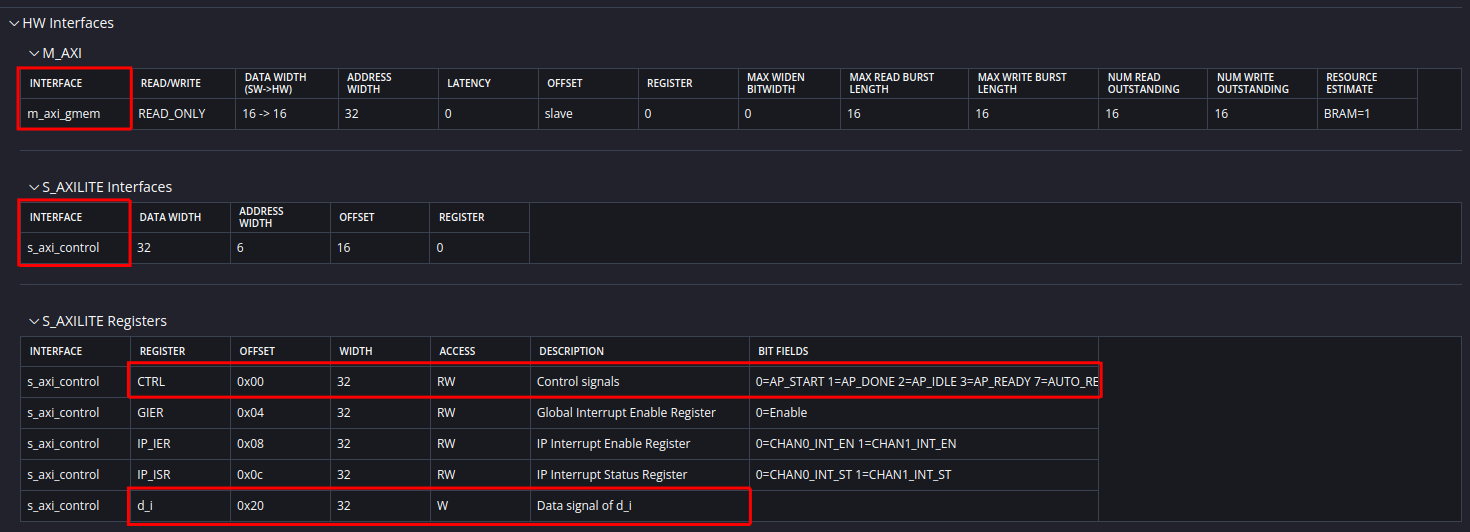
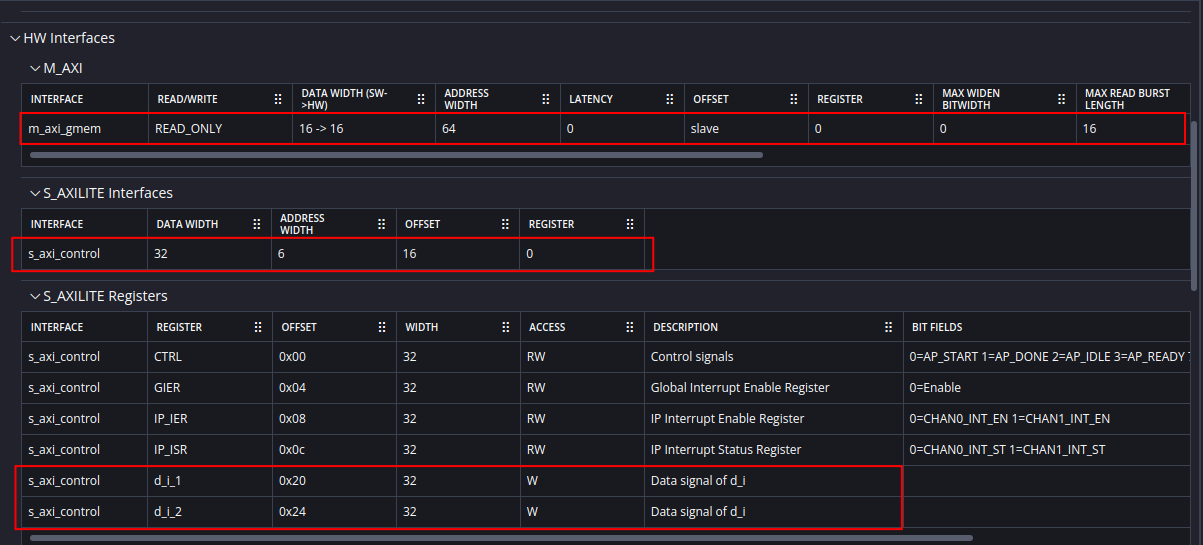
Update 26.1

Changed region(s): [[0.0, 0.0, 1.0, 1.0]]

diff --git a/vitis_hls/tutorial_04/tutorial_04.md b/vitis_hls/tutorial_04/tutorial_04.md
@@ -9,7 +9,7 @@
 ---
 ## Setting up the component and baseline synthesis
 * Like in the previous tutorials download the folder `tutorial_04/reference_files` and rename this folder to `tutorial_04`. 
-* Open a Linux terminal, go to the folder `tutorial_04` and execute the bash script `run_demo.sh`. Then start the Vitis GUI and open the workspace `tutorial_04`. You should see the component `sol1` (what we called a _solution_ in the previous tutorials) in the _Vitis Components Explorer_.
+* Open a Linux terminal, go to the folder `tutorial_04` and execute the bash script `sol1.sh`. Then start the Vitis GUI and open the workspace `tutorial_04`. You should see the component `sol1` (what we called a _solution_ in the previous tutorials) in the _Vitis Components Explorer_.
 * First open the component source code `accumulator.c` and study the code.  There is a nested loop which iterates over the number of `CHANNELS` and the number of `SAMPLES` (per channel). For each channel we accumulate the data from the samples with `accu += d_i[j*CHANNELS + i];`. What is important for the following discussion is the fact that we access the data in array `d_i[]` not sequentially but with a constant distance given by `CHANNELS`. 
 * Open the testbench code `accumulator_test.c` and study the code. First the input array `d_i[]` is filled with test data, which is simply the value of the loop counter. Then the reference data is generated by a copy of the code in the component. In line 30 the component function is called and finally the output data of the component is compared with the reference data and a final output message is generated. 
 * Open the configuration file `sol1_config.cfg` and select the _Source Editor_ view. You can see that we applied already the following directives as explained in [tutorial 3](../tutorial_03/tutorial_03.md) and pipelined the inner loop L1. 
@@ -20,7 +20,8 @@ syn.compile.pipeline_loops=0
 syn.directive.pipeline=accumulator/L1
 ```
 
-* Next run through the steps in the flow navigator: _C SIMULATION_, _C SYNTHESIS_ and _C/RTL COSIMULATION_. If you want to get more insight how the component function `accumulator` works you can use the debugger in _C SIMULATION_ by pushing the _Debug_ button instead of _Run_.  
+* Since synthesis has alreday been executed you can run also _C SIMULATION_ and _C/RTL COSIMULATION_. Use the standard settings, execpt for Cosimulation you should change `hls.cosim.rtl` to VHDL. You can also enable `hls.cosim.wave_debug` if you want to see the Vivado waveform display after cosimulation. In this case set the `hls.cosim.trace_level` to `port`, which enables to see the signals on the toplevel interface of the component.
+    * Note: If you want to use the waveform display to analyze the cosimulation of the VHDL code you should be familiar with Vivado, e.g. by having done the tutorial on Vivado.
 * Open the synthesis report and study the results for the performance and resources and the _HW Interfaces_ as shown in the next image. You can see that the loops `L0` and `L1` have been flattened and pipelined (refer to [tutorial 3](../tutorial_03/tutorial_03.md) for more details on loop pipelining). Under the section _HW Interfaces_ you can see that the arrays `d_i[]` and `d_o[]` have been implemented as memory interfaces with the protocol _AP_MEMORY_. 
 
 ![Synthesis results](images/hls_100.png)
@@ -29,7 +30,7 @@ syn.directive.pipeline=accumulator/L1
 
 ![Ports VHDL](images/hls_101.png)
 
-* In the next image the integration of the IP core in Vivado is shown (refer to [tutorial 1](../tutorial_01/tutorial_01.md) on how to do this). You can see that Block RAMs have been attached to the IP core, where the upper one is attached to the ports for array `d_i[]` and the lower one is attached to the ports for array `d_o[]`. The upper BRAM is configured as ROM, which can be filled with data. The lower one is configured as RAM, where the output port `douta[15:0]` is left open, since we only write to the RAM. Normally this RAM should be configured as _Dual Port RAM_ and the RAM should be read by another component in a system. 
+* In the next image the integration of the IP core in Vivado is shown. You can see that Block RAMs have been attached to the IP core, where the upper one is attached to the ports for array `d_i[]` and the lower one is attached to the ports for array `d_o[]`. The upper BRAM is configured as ROM, which can be filled with data. The lower one is configured as RAM, where the output port `douta[15:0]` is left open, since we only write to the RAM. Normally this RAM should be configured as _Dual Port RAM_ and the RAM should be read by another component in a system. 
 
 ![Vivado project](images/hls_102.png)
 
@@ -58,12 +59,11 @@ syn.directive.pipeline=accumulator/L1
 
 ![Cosimulation error](images/hls_107.png)
 
-* In order to analyze the problem you can open the _Kernel Guidance_ report under `C SYNTHESIS > REPORTS` as shown in the next image. There are two warnings for the ports `d_i` and `d_o`. In the case of the input port `d_i` it in fact leads to the above mentioned cosimulation problem: The array `d_i` is accessed non-sequentially as we have already mentioned when we discussed the functionality of the C code in the beginning of this tutorial. This means it is not possible to attach a FIFO to the input port `d_i` but a RAM is needed. 
+* The reason for the error is that array `d_i` is accessed non-sequentially as we have already mentioned when we discussed the functionality of the C code in the beginning of this tutorial. In this case the cosimulation leads to different values when compared to the simulation of the original C code. This means it is not possible to attach a FIFO to the input port `d_i` but a RAM is needed. Unfortunately Vitis HLS does not show helpful information in the GUI. But a _Design Guidance Report_ is generated under `<solution_directory>/<solution_name>/report` as HTML-file. For this example you should find it under `tutorial_04/sol2/sol2/reports/v++_compile_sol2_guidance.html`. If you open it in a web browser you can see that there are some hints on the interface problem mentioned above. 
 
-![Guidance report](images/hls_108.png)
 
 ## AXI bus interfaces
-* In this section we would like to demonstrate how to integrate the component as an IP core in a processor based system, for example in a [Zynq SoC](https://www.amd.com/en/products/adaptive-socs-and-fpgas/soc/zynq-7000.html). The integration is done via [AXI bus interfaces](https://docs.amd.com/r/en-US/ug1399-vitis-hls/AXI-Adapter-Interface-Protocols). There are basically two so-called _Flows_ for HLS: [Vivado IP Flow](https://docs.amd.com/r/en-US/ug1399-vitis-hls/Interfaces-for-Vivado-IP-Flow) and [Vitis Kernel Flow](https://docs.amd.com/r/en-US/ug1399-vitis-hls/Interfaces-for-Vitis-Kernel-Flow). In this and the previous tutorials we use the _Vivado IP Flow_. The _Vitis Kernel Flow_ is meant for components which should be integrated in processor based SOCs. For both flows there are default implementations for the function arguments, in the case of the _Vitis Kernel Flow_ this is the AXI bus system. But also for the _Vivado IP Flow_ you can specifiy AXI bus interfaces, that is what we will do here. By the way, the flow is also specified in the config file in the _flow target_ which is set here to `flow_target=vivado`. 
+* In this section we would like to demonstrate how to integrate the component as an IP core in a processor based system, for example in a [Zynq SoC](https://www.amd.com/en/products/adaptive-socs-and-fpgas/soc/zynq-7000.html). The integration is done via [AXI bus interfaces](https://docs.amd.com/r/en-US/ug1399-vitis-hls/AXI-Adapter-Interface-Protocols). There are basically two so-called _Flows_ for HLS: [Vivado IP Flow](https://docs.amd.com/r/en-US/ug1399-vitis-hls/Interfaces-for-Vivado-IP-Flow) and [Vitis Kernel Flow](https://docs.amd.com/r/en-US/ug1399-vitis-hls/Interfaces-for-Vitis-Kernel-Flow). In this and the previous tutorials we use the _Vivado IP Flow_. The _Vitis Kernel Flow_ is meant for components which should be integrated in processor based SOCs. For both flows there are default implementations for the function arguments, in the case of the _Vitis Kernel Flow_ this is the AXI bus system. But also for the _Vivado IP Flow_ you can specifiy AXI bus interfaces, that is what we will do here. By the way, the flow can also be specified in the config file with `flow_target=vivado`. 
 * For the component in this tutorial we will specify an AXI slave interface for the output port `d_o` and the block-level control signals. For the port `d_i` we will specify an AXI master interface. We will not discuss here the AXI protocol itself, if you need information on the AXI protocol you can find it [here](https://developer.arm.com/documentation/102202/0300/AXI-protocol-overview).
 * Clone a new solution `sol3` from solution `sol1`. Open the C source code `accumulator.c` and the _HLS directives_ pane. Select the function `accumulator` in the HLS directives pane. Add a directive with the `+` sign. Select _INTERFACE_ and in the _mode_ field select _s_axilite_ as shown in the next image. The port should be set to _return_. This adds an AXI Lite slave interface to the component, where the port _return_ and the ports for the block-level control protocol will be implemented as user registers of the slave interface. Make sure that the directive will be added to the config file.
 
@@ -79,12 +79,11 @@ syn.directive.pipeline=accumulator/L1
 syn.directive.interface=accumulator d_o mode=s_axilite
 syn.directive.interface=accumulator return mode=s_axilite
 syn.directive.interface=accumulator d_i mode=m_axi offset=slave
-syn.interface.m_axi_addr64=0
 ```
 
 ![Interface directive](images/hls_111.png)
 
-* Next run the _C SYNTHESIS_ and verify the component by running _C/RTL COSIMULATION_. Open the synthesis report. When you scroll down the synthesis report to the section _HW INTERFACES_ you can see the interfaces as shown in the next image. There is the AXI master interface _m_axi_gmem_ which is used for the input `d_i`. Next there is the AXI slave interface _s_axi_control_ which is used for the block-level control, the output `d_o` and the DMA address for the AXI master. You can also see the registers of the slave interface in the section _S_AXILITE Registers_: The _CTRL_ register contains the block-level control signals (_AP_START_, _AP_DONE_, _AP_IDLE_, _AP_READY_) as bits 0-3. The component is able to generate interrupts, therefore there are some registers related to the interrupt functionality (for further information please consult the [Xilinx User Guide](https://docs.amd.com/r/en-US/ug1399-vitis-hls/AXI4-Lite-Interface)). Finally there is the register _d_i_ which needs to be programmed with the start address for AXI master DMA transfer. The output `d_o` is implemented as memory in the AXI slave interface, which is not shown in this overview.
+* Next run the _C SYNTHESIS_ and verify the component by running _C/RTL COSIMULATION_. Open the synthesis report. When you scroll down the synthesis report to the section _HW INTERFACES_ you can see the interfaces as shown in the next image. There is the AXI master interface _m_axi_gmem_ which is used for the input `d_i`. Next there is the AXI slave interface _s_axi_control_ which is used for the block-level control, the output `d_o` and the DMA address for the AXI master. You can also see the registers of the slave interface in the section _S_AXILITE Registers_: The _CTRL_ register contains the block-level control signals (_AP_START_, _AP_DONE_, _AP_IDLE_, _AP_READY_) as bits 0-3. The component is able to generate interrupts, therefore there are some registers related to the interrupt functionality (for further information please consult the [Xilinx User Guide](https://docs.amd.com/r/en-US/ug1399-vitis-hls/AXI4-Lite-Interface)). Finally there is the register _d_i_ which needs to be programmed with the start address for AXI master DMA transfer. In this case the default is a 64 Bit start address, therefore two 32 Bit registers are needed for the start address. A 32 Bit start address can be generated if set `syn.interface.m_axi_addr64=0` in the configuration file. The output `d_o` is implemented as memory in the AXI slave interface, which is not shown in this overview.
 
 ![AXI Interface](images/hls_112.png)
 
@@ -92,7 +91,7 @@ syn.interface.m_axi_addr64=0
 
 ![AXI Interface](images/hls_113.png)
 
-* The interface synthesis for AXI bus interfaces produces also C driver code for SW development. Package the component by pushing `Run` in the section _PACKAGE_ of the flow navigator. Then go to the _Vitis Components_ navigator and in the _Output_ section of `sol3` navigate to `impl > ip > drivers > accumulator_v1_0 > src` and open the file `xaccumulator_hw.h`. In the following image you can see the upper part of this file which shows the offset addresses of the registers and memory in the slave interface, for example the control register, the DMA start address for `d_i` and the memory space for `d_o`. In the other C code files you will also find driver functions for programming the slave interface. You can find more information in the [Xilinx HLS User Guide](https://docs.amd.com/r/en-US/ug1399-vitis-hls/C-Driver-Files).
+* The interface synthesis for AXI bus interfaces produces also C driver code for SW development. Package the component by pushing `Run` in the section _PACKAGE_ of the flow navigator. Then go to the _Vitis Components_ navigator and in the _Output_ section of `sol3` navigate to `impl > misc > drivers > accumulator_v1_0 > src` and open the file `xaccumulator_hw.h`. In the following image you can see the upper part of this file which shows the offset addresses of the registers and memory in the slave interface, for example the control register, the DMA start address for `d_i` and the memory space for `d_o`. In the other C code files you will also find driver functions for programming the slave interface. You can find more information in the [Xilinx HLS User Guide](https://docs.amd.com/r/en-US/ug1399-vitis-hls/C-Driver-Files).
 
 ![AXI Drivers](images/hls_114.png)
 
